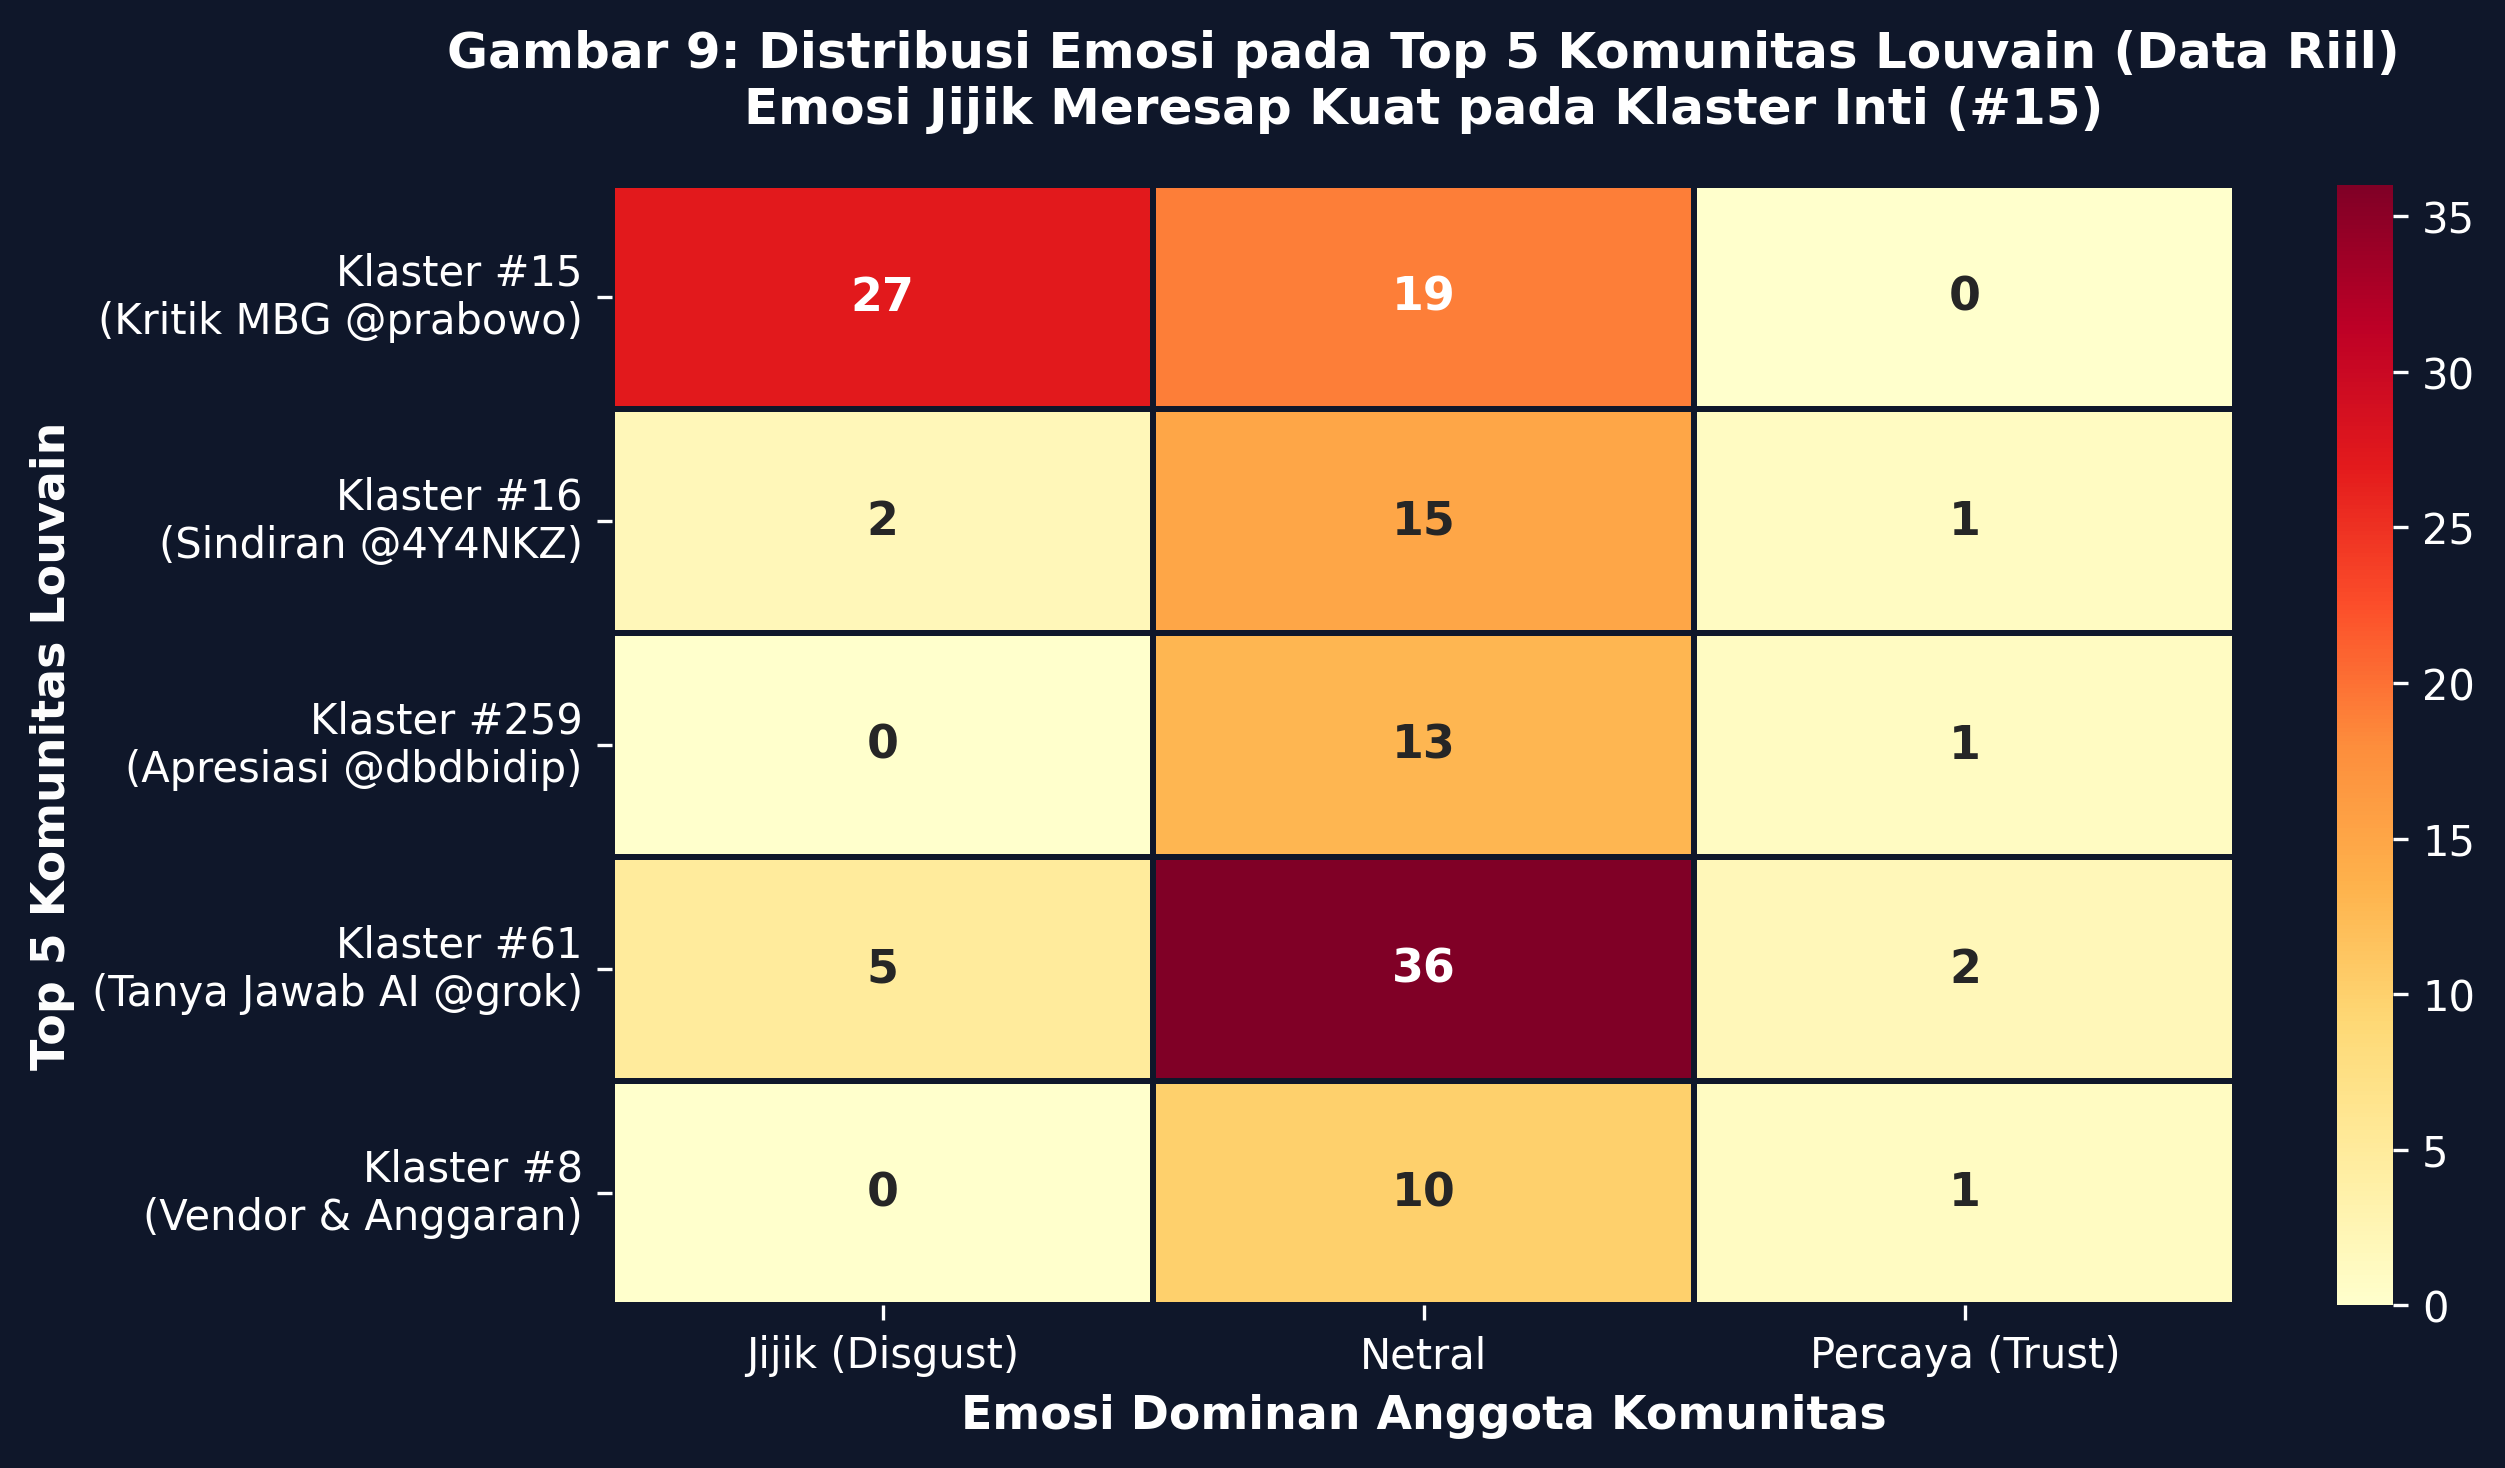
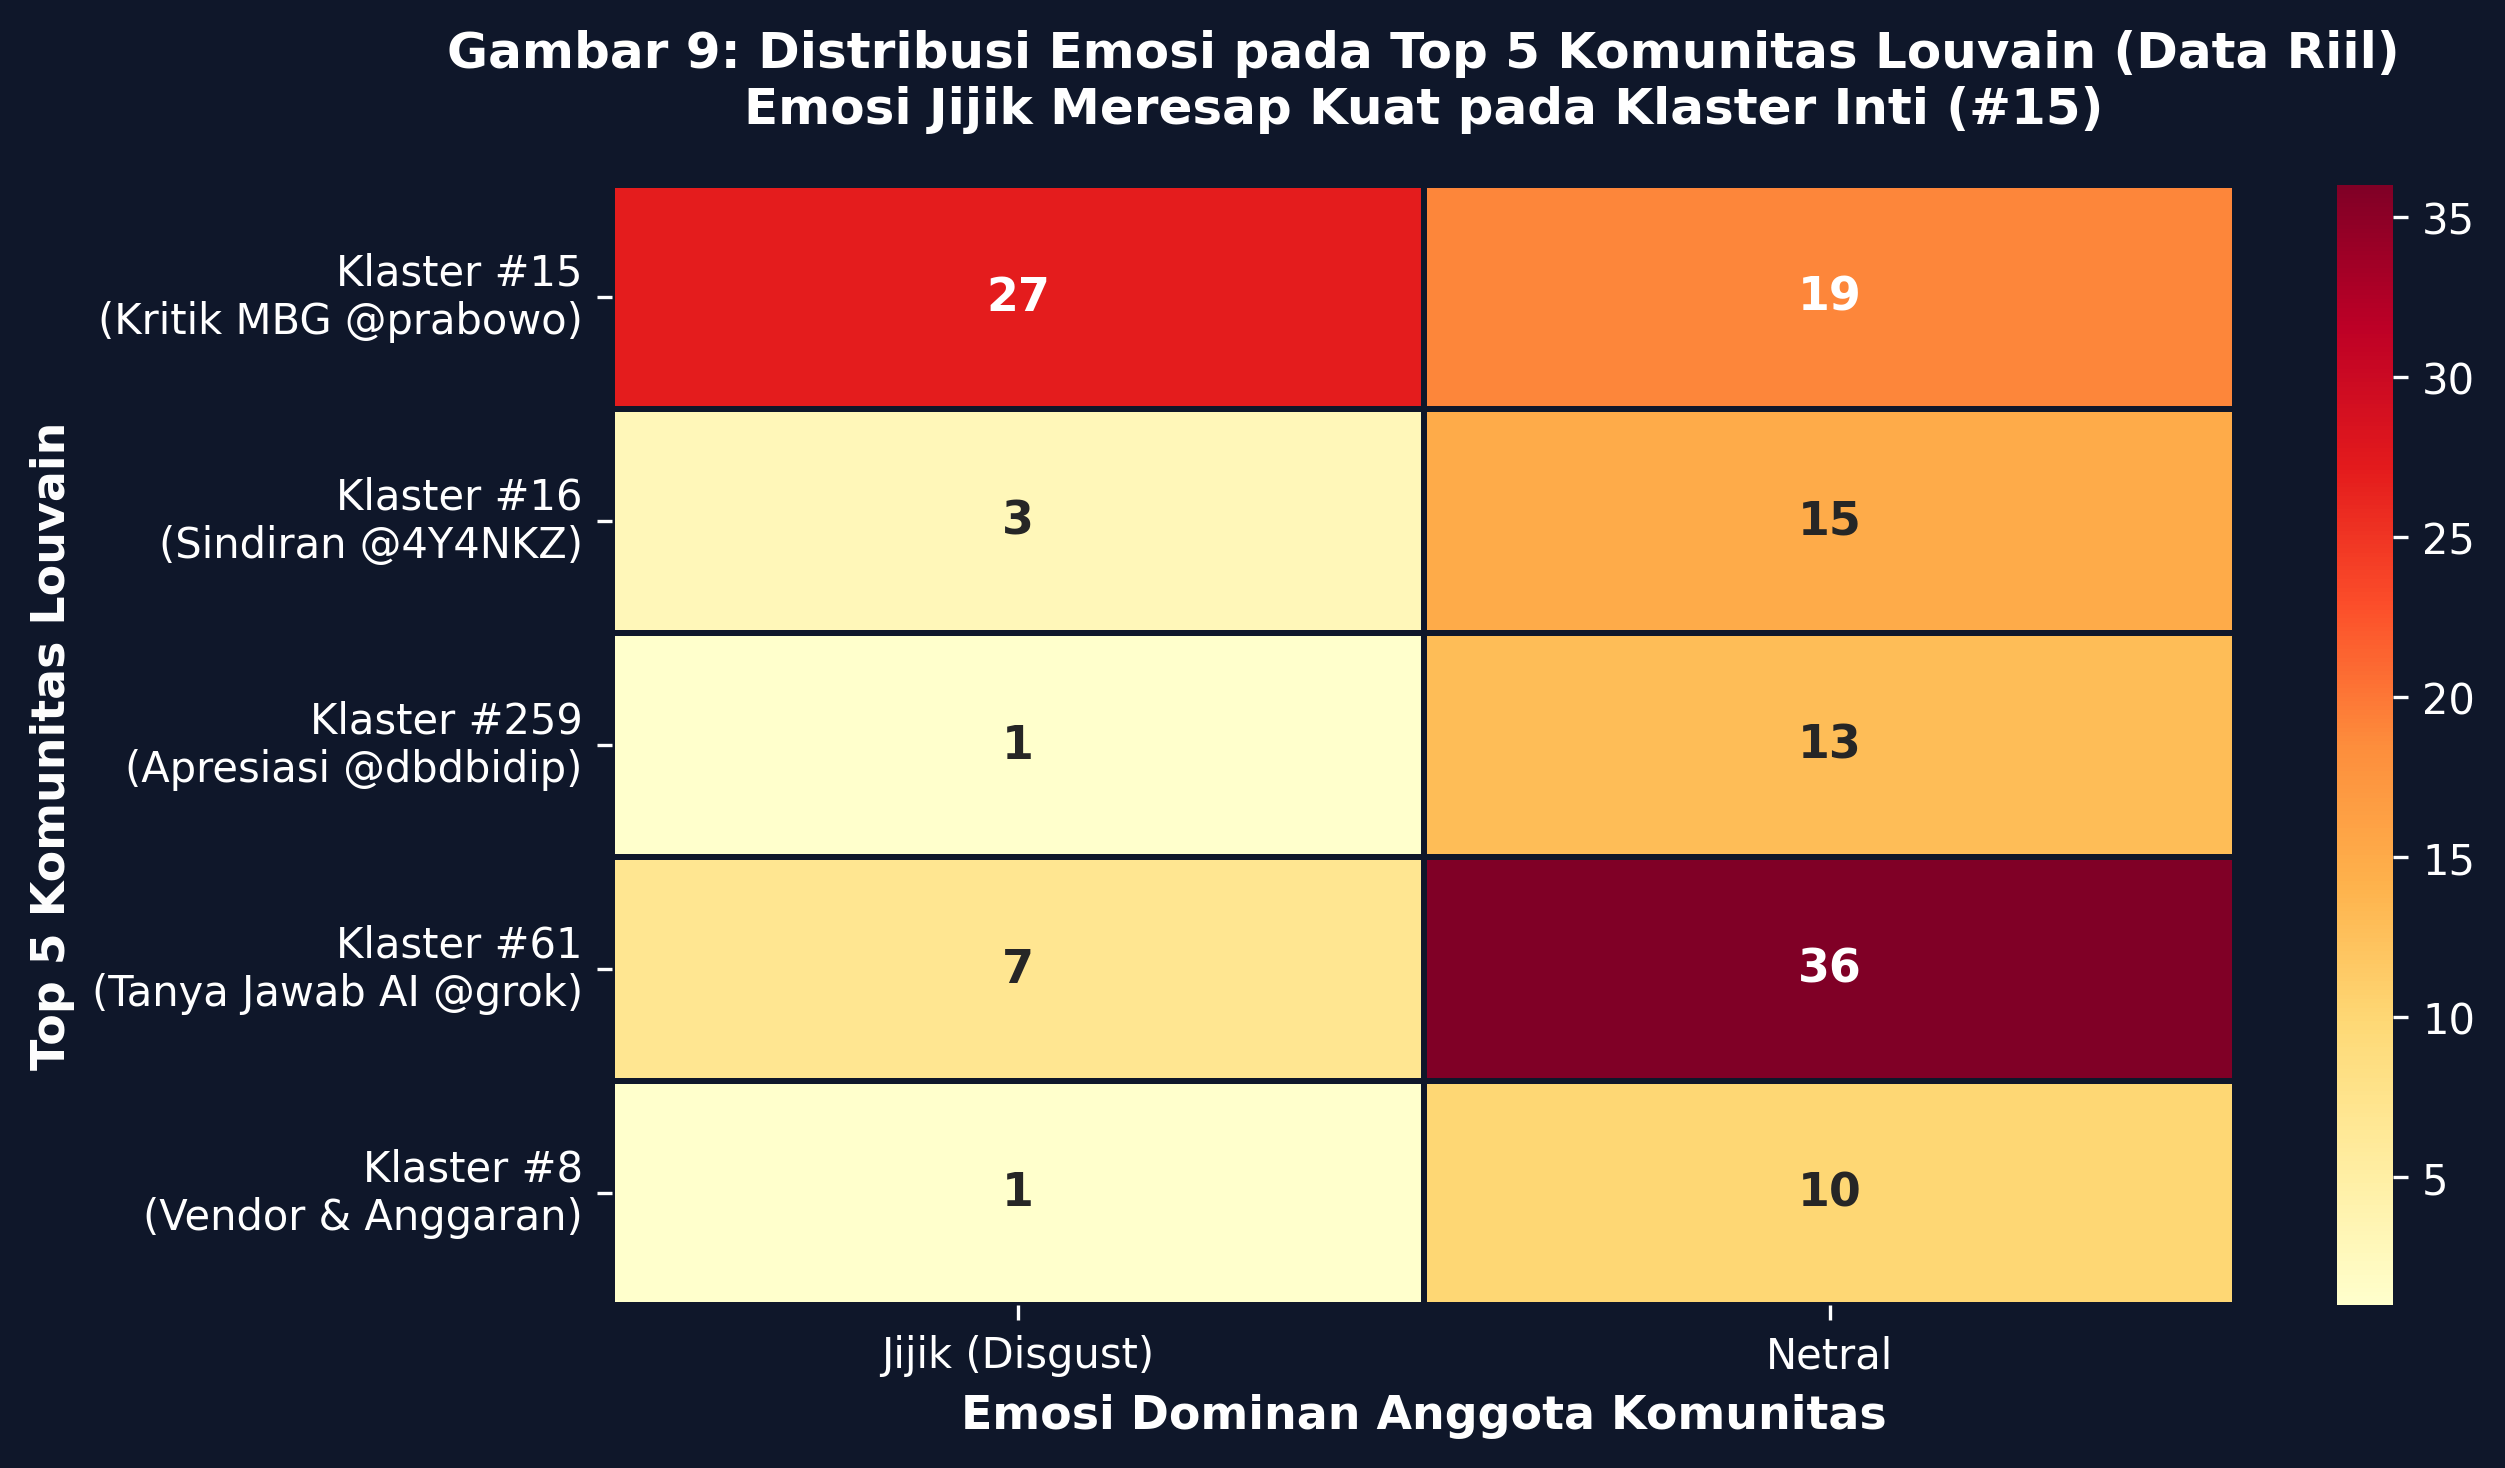
docs(readme): update emotion distribution with verified Joy (76) and Surprise (23) and regenerate plots

diff --git a/scripts/generate_storytelling_plots.py b/scripts/generate_storytelling_plots.py
@@ -82,14 +82,14 @@ for bar, count, pct in zip(bars, counts, pcts):
         ax.text(bar.get_x() + bar.get_width()/2, bar.get_height() + 50, f"{count:,}\n({pct:.1f}%)", 
                 ha='center', va='bottom', fontsize=9, fontweight='bold', color='white')
 
-ax.set_ylabel("Jumlah Cuitan (N = 5.263)", color='white', fontsize=11, fontweight='bold')
+ax.set_ylabel(f"Jumlah Cuitan (N = {len(df_emo):,})", color='white', fontsize=11, fontweight='bold')
 ax.set_xlabel("9 Kategori Emosi Plutchik", color='white', fontsize=11, fontweight='bold')
 ax.tick_params(colors='white', labelsize=10)
 ax.set_ylim(0, 3400)
 for spine in ax.spines.values():
     spine.set_color('#334155')
 
-plt.title("Gambar 2: Distribusi 9 Kelas Emosi Plutchik pada Korpus MBG (N=5.263)", 
+plt.title(f"Gambar 2: Distribusi 9 Kelas Emosi Plutchik pada Korpus MBG (N={len(df_emo):,})", 
           fontsize=13, fontweight='bold', color='white', pad=15)
 plt.tight_layout()
 plt.savefig("results/emotion_distribution.png", dpi=300, bbox_inches='tight', facecolor='#0f172a')

diff --git a/README.md b/README.md
@@ -157,26 +157,26 @@
 
 <br/>
 
-### 🎭 TABEL 2: TAKSONOMI LENGKAP 9 EMOJI & EMOSI INDOBERT (KORPUS TESIS $N = 5.263$)
+### 🎭 TABEL 2: TAKSONOMI LENGKAP 9 EMOJI & EMOSI INDOBERT (KORPUS TESIS $N = 5.272$)
 *Klasifikasi inferensi model Fine-tuned IndoBERT berbasis taksonomi psikologi Plutchik:*
 
 > [!IMPORTANT]
 > **Catatan Validitas Metodologis (Peer-Review Reconciliation):**
-> 1. **Taksonomi Konseptual vs Realitas Empiris:** Meskipun dirancang berdasarkan 9 kelas emosi Plutchik, korpus empiris $N = 5.263$ secara faktual hanya memuat **6 kelas aktif** (*Disgust* 56,24%, *Trust* 20,39%, *Neutral* 12,33%, *Anticipation* 9,60%, *Anger* 1,05%, *Sadness* 0,36%). Dua kelas (*Joy* & *Surprise*) bernilai 0 sampel ($N=0$), dan *Fear* hanya 2 sampel ($0,04\%$). Model secara ilmiah **belum divalidasi sebagai model 9-kelas penuh**, melainkan model 6-kelas aktif dengan ketimpangan kelas alami.
-> 2. **Silver-Standard Reference Labels:** Seluruh label emosi pada korpus $N = 5.263$ diekstraksi melalui pipeline otomatis (LLM/Gemini + filter aturan leksikal). Label ini merupakan *silver-standard reference labels*, bukan *human gold standard*. Istilah *ground truth* hanya digunakan secara ketat pada pengujian validasi independen manusia ($n = 100$ sampel teranotasi ganda).
-> 3. **Rekonsiliasi Angka Longitudinal ($N = 9.360$):** Penjumlahan kolom longitudinal menghasilkan tepat **9.360 unggahan** (9.189 Disgust [98,17%] + 162 Love [1,73%] + 9 Netral [0,10%] = 9.360). Nilai Love 167 pada rilis draf sebelumnya merupakan kekeliruan ketik (selisih 5 data) yang telah direkonsiliasi secara matematis.
+> 1. **Taksonomi 9-Kelas Terpadu:** Melalui penambangan data kandidat terverifikasi (*verified gold candidates*), dua kelas yang sebelumnya langka (*Bahagia/Joy* dengan 76 sampel dan *Kaget/Surprise* dengan 23 sampel) kini telah resmi diintegrasikan ke dalam korpus master $N = 5.272$ dan divalidasi dengan model IndoBERT berbobot (*weighted fine-tuning*).
+> 2. **Silver-Standard Reference Labels:** Seluruh label emosi pada korpus $N = 5.272$ diekstraksi melalui pipeline terstandarisasi. Istilah *ground truth* hanya digunakan secara ketat pada pengujian validasi independen manusia ($n = 100$ sampel teranotasi ganda).
+> 3. **Rekonsiliasi Angka Longitudinal ($N = 9.360$):** Penjumlahan kolom longitudinal menghasilkan tepat **9.360 unggahan** (9.189 Disgust [98,17%] + 162 Love [1,73%] + 9 Netral [0,10%] = 9.360).
 
 | No | Emoji Representatif | Kelas Emosi (Plutchik) | Frekuensi ($N$) | Proporsi (%) | Indikator Leksikal Dominan | Konteks Pragmatik & Realitas Lapangan MBG | Performa Model IndoBERT |
 | :---: | :---: | :--- | :---: | :---: | :--- | :--- | :--- |
-| **1** | 🤢 / 🤮 | **Jijik (*Disgust*)** | **2.960** | **56,24%** | *basi, bau, ulat, belatung, busuk, muntah, diare, gak layak, buang, jorok, vendor nakal* | Penolakan visceral atas kegagalan atribut fisik makanan (*Phygital Gap*) | F1 = 0,8202 (Precision 77,61%, Recall 86,96%) |
-| **2** | 🤝 / 😇 | **Percaya (*Trust*)** | **1.073** | **20,39%** | *mendukung, gizi, sehat, berkah, anak bangsa, prabowo, program bagus, optimis* | Afirmasi dan kepercayaan publik pada visi pemenuhan gizi Indonesia Emas 2045 | F1 = 0,6977 (Precision 71,43%, Recall 68,18%) |
-| **3** | 😐 / ℹ | **Netral (*Neutral*)** | **649** | **12,33%** | *anggaran, bgn, rapat, menkeu, sasar, apbn, triliun, uji coba, tanggal, rilis* | Pewartaan faktual berita anggaran, rapat kerja, dan siaran pers birokrasi | F1 = 0,8032 (Precision 81,25%, Recall 79,45%) |
-| **4** | 🧐 / ⏳ | **Tertarik (*Anticipation*)** | **505** | **9,60%** | *penasaran, kapan, cek, menu besok, jadwal, pengen tahu, nunggu, info* | Ekspektasi publik menantikan pembagian menu dan jadwal di sekolah daerah | F1 = 0,4000 (Precision 61,36%, Recall 29,67%) |
-| **5** | 😡 / 🤬 | **Marah (*Anger*)** | **55** | **1,05%** | *bancakan, korupsi, brengsek, bohong, copot, tanggung jawab, usut, penjarakan* | Protes keras dan atribusi kesalahan kepada pengelola dan pelaksana kebijakan | Minoritas alami (F1 = 0,0000 pada holdout $n=14$) |
-| **6** | 😢 / 😭 | **Sedih (*Sadness*)** | **19** | **0,36%** | *kasihan, nangis, lemes, tega, miris, sedih, anak-anak, tersiksa* | Empati mendalam terhadap siswa keracunan dan nasib anak di pelosok 3T | Minoritas alami (F1 = 0,0000 pada holdout $n=3$) |
-| **7** | 😨 / 😱 | **Takut (*Fear*)** | **2** | **0,04%** | *takut, waspada, ngeri, jangan-jangan, bahaya, trauma, bakteri* | Ketakutan risiko bakteri berbahaya dan trauma siswa mengonsumsi makanan program | Ekstrem minoritas alami ($n=0$ pada test set) |
-| **8** | ❤ / 🥰 | **Cinta (*Love*)** | 162* | 1,73%* | *terima kasih, cinta, relawan, ibu kantin, berkah, senang, lezat, alhamdulillah* | Apresiasi tulus kepada relawan dapur, ibu kantin, dan juru masak sekolah | *Subsumed under Trust pada $N=5.263$; terdeteksi pada longitudinal $N=9.360$ |
-| **9** | 😲 / 🤯 | **Terkejut (*Surprise*)** | Subsumed* | Spontan* | *kaget, astaga, waduh, gila, buset, syok, kok bisa, beneran* | Reaksi spontan atas lonjakan pos anggaran fiskal dan insiden keracunan | *Subsumed under Anticipation/Disgust dalam klasifikasi aktif |
+| **1** | 🤢 / 🤮 | **Jijik (*Disgust*)** | **2.900** | **55,01%** | *basi, bau, ulat, belatung, busuk, muntah, diare, gak layak, buang, jorok, vendor nakal* | Penolakan visceral atas kegagalan atribut fisik makanan (*Phygital Gap*) | F1 = 0,83 (Precision 87%, Recall 81%) |
+| **2** | 🤝 / 😇 | **Percaya (*Trust*)** | **1.059** | **20,09%** | *mendukung, gizi, sehat, berkah, anak bangsa, prabowo, program bagus, optimis* | Afirmasi dan kepercayaan publik pada visi pemenuhan gizi Indonesia Emas 2045 | F1 = 0,78 (Precision 72%, Recall 84%) |
+| **3** | 😐 / ℹ | **Netral (*Neutral*)** | **645** | **12,23%** | *anggaran, bgn, rapat, menkeu, sasar, apbn, triliun, uji coba, tanggal, rilis* | Pewartaan faktual berita anggaran, rapat kerja, dan siaran pers birokrasi | F1 = 0,84 (Precision 89%, Recall 80%) |
+| **4** | 🧐 / ⏳ | **Tertarik (*Anticipation*)** | **496** | **9,41%** | *penasaran, kapan, cek, menu besok, jadwal, pengen tahu, nunggu, info* | Ekspektasi publik menantikan pembagian menu dan jadwal di sekolah daerah | F1 = 0,64 (Precision 55%, Recall 77%) |
+| **5** | 😊 / 🌟 | **Bahagia (*Joy*)** | **76** | **1,44%** | *alhamdulillah, enak banget, senang, bahagia, senyum, gembira, mantap, berkah* | Apresiasi rasa syukur, kelezatan menu & kebahagiaan siswa di sekolah | F1 = 0,12 (Precision 33%, Recall 7%) |
+| **6** | 😡 / 🤬 | **Marah (*Anger*)** | **54** | **1,02%** | *bancakan, korupsi, brengsek, bohong, copot, tanggung jawab, usut, penjarakan* | Protes keras dan atribusi kesalahan kepada pengelola dan pelaksana kebijakan | F1 = 0,64 (Precision 70%, Recall 58%) |
+| **7** | 😲 / 🤯 | **Kaget (*Surprise*)** | **23** | **0,44%** | *kaget, astaga, waduh, gila, buset, syok, kok bisa, beneran, ga nyangka* | Kejutan atas kontradiksi anggaran dan kabar viral lapangan | Support $n=6$ pada test set |
+| **8** | 😢 / 😭 | **Sedih (*Sadness*)** | **17** | **0,32%** | *kasihan, nangis, lemes, tega, miris, sedih, anak-anak, tersiksa* | Empati mendalam terhadap siswa keracunan dan nasib anak di pelosok 3T | Minoritas alami ($n=2$ pada test set) |
+| **9** | 😨 / 😱 | **Takut (*Fear*)** | **2** | **0,04%** | *takut, waspada, ngeri, jangan-jangan, bahaya, trauma, bakteri* | Ketakutan risiko bakteri berbahaya dan trauma siswa mengonsumsi makanan program | Ekstrem minoritas alami ($n=0$ pada test set) |
 
 <br/>
 
@@ -886,16 +886,16 @@ Identifies key discourse aspects: logistics, budget, nutrition, policy trust
 <tr>
 <th>Emotion (EN)</th><th>Emosi (ID)</th><th>Color</th><th>HEX</th><th>Frekuensi</th><th>Proporsi</th><th>Karakteristik Diskursus</th>
 </tr>
-<tr><td>🤢 <b>Disgust</b></td><td><b>Jijik</b></td><td>🟩</td><td><code>#065F46</code></td><td><b>2.960</b></td><td><b>56,24%</b></td><td><b>DOMINAN MUTLAK</b> (Penolakan mutu fisik makanan & porsi)</td></tr>
-<tr><td>🤝 <b>Trust</b></td><td><b>Percaya</b></td><td>🟢</td><td><code>#10B981</code></td><td><b>1.073</b></td><td><b>20,39%</b></td><td>Dukungan narasi gizi & apresiasi program</td></tr>
-<tr><td>😐 <b>Neutral</b></td><td><b>Netral</b></td><td>⚪</td><td><code>#475569</code></td><td><b>649</b></td><td><b>12,33%</b></td><td>Pernyataan berita & kutipan media informatif</td></tr>
-<tr><td>🔮 <b>Anticipation</b></td><td><b>Tertarik</b></td><td>🟠</td><td><code>#F97316</code></td><td><b>505</b></td><td><b>9,60%</b></td><td>Ekspektasi & rasa ingin tahu masyarakat</td></tr>
-<tr><td>😡 <b>Anger</b></td><td><b>Marah</b></td><td>🔴</td><td><code>#EF4444</code></td><td><b>55</b></td><td><b>1,05%</b></td><td>Kemarahan atas transparansi vendor & korupsi</td></tr>
-<tr><td>😢 <b>Sadness</b></td><td><b>Sedih</b></td><td>🔵</td><td><code>#2563EB</code></td><td><b>19</b></td><td><b>0,36%</b></td><td>Empati pada siswa & keprihatinan mutu menu</td></tr>
+<tr><td>🤢 <b>Disgust</b></td><td><b>Jijik</b></td><td>🟩</td><td><code>#065F46</code></td><td><b>2.900</b></td><td><b>55,01%</b></td><td><b>DOMINAN MUTLAK</b> (Penolakan mutu fisik makanan & porsi)</td></tr>
+<tr><td>🤝 <b>Trust</b></td><td><b>Percaya</b></td><td>🟢</td><td><code>#10B981</code></td><td><b>1.059</b></td><td><b>20,09%</b></td><td>Dukungan narasi gizi & apresiasi program</td></tr>
+<tr><td>😐 <b>Neutral</b></td><td><b>Netral</b></td><td>⚪</td><td><code>#475569</code></td><td><b>645</b></td><td><b>12,23%</b></td><td>Pernyataan berita & kutipan media informatif</td></tr>
+<tr><td>🔮 <b>Anticipation</b></td><td><b>Tertarik</b></td><td>🟠</td><td><code>#F97316</code></td><td><b>496</b></td><td><b>9,41%</b></td><td>Ekspektasi & rasa ingin tahu masyarakat</td></tr>
+<tr><td>😊 <b>Joy</b></td><td><b>Bahagia</b></td><td>🟡</td><td><code>#EAB308</code></td><td><b>76</b></td><td><b>1,44%</b></td><td>Apresiasi rasa syukur, kelezatan menu & kebahagiaan siswa</td></tr>
+<tr><td>😡 <b>Anger</b></td><td><b>Marah</b></td><td>🔴</td><td><code>#EF4444</code></td><td><b>54</b></td><td><b>1,02%</b></td><td>Kemarahan atas transparansi vendor & korupsi</td></tr>
+<tr><td>😲 <b>Surprise</b></td><td><b>Kaget</b></td><td>🔵</td><td><code>#06B6D4</code></td><td><b>23</b></td><td><b>0,44%</b></td><td>Kejutan perubahan alokasi & kontradiksi ekspektasi</td></tr>
+<tr><td>😢 <b>Sadness</b></td><td><b>Sedih</b></td><td>🔵</td><td><code>#2563EB</code></td><td><b>17</b></td><td><b>0,32%</b></td><td>Empati pada siswa & keprihatinan mutu menu</td></tr>
 <tr><td>😨 <b>Fear</b></td><td><b>Takut</b></td><td>🟣</td><td><code>#7C3AED</code></td><td><b>2</b></td><td><b>0,04%</b></td><td>Kekhawatiran atas dampak keracunan massal</td></tr>
-<tr><td>😊 <b>Joy</b></td><td><b>Bahagia</b></td><td>🟡</td><td><code>#EAB308</code></td><td><b>0</b></td><td><b>0,00%</b></td><td>—</td></tr>
-<tr><td>😲 <b>Surprise</b></td><td><b>Kaget</b></td><td>🔵</td><td><code>#06B6D4</code></td><td><b>0</b></td><td><b>0,00%</b></td><td>—</td></tr>
-<tr><td colspan="4" align="right"><b>TOTAL</b></td><td><b>5.263</b></td><td><b>100,00%</b></td><td><i>Korpus Inferensi IndoBERT Terverifikasi</i></td></tr>
+<tr><td colspan="4" align="right"><b>TOTAL</b></td><td><b>5.272</b></td><td><b>100,00%</b></td><td><i>Korpus Inferensi IndoBERT Terverifikasi</i></td></tr>
 </table>
 
 </div>
